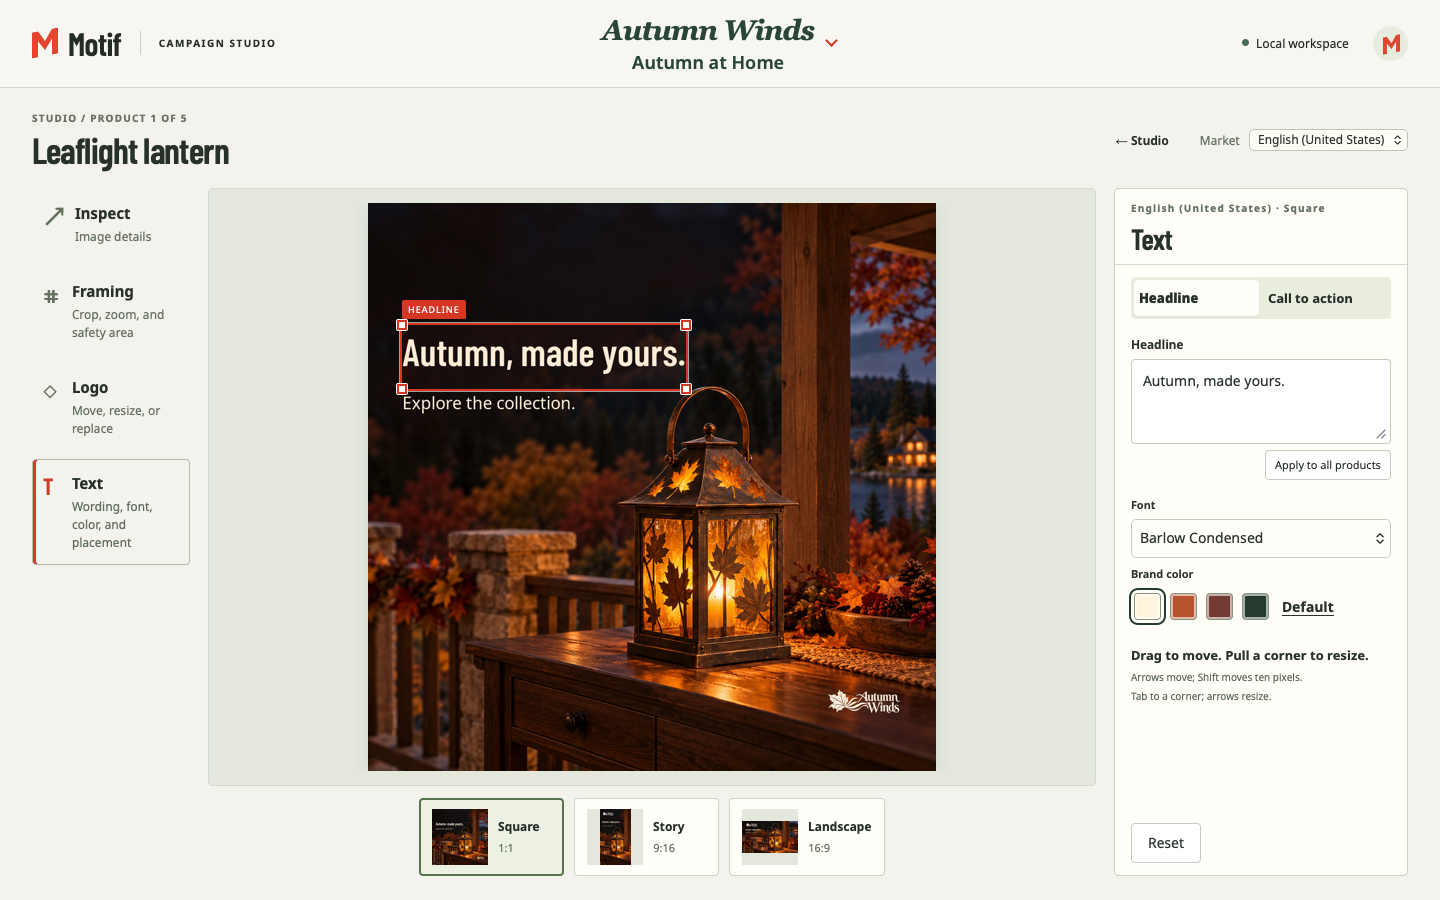
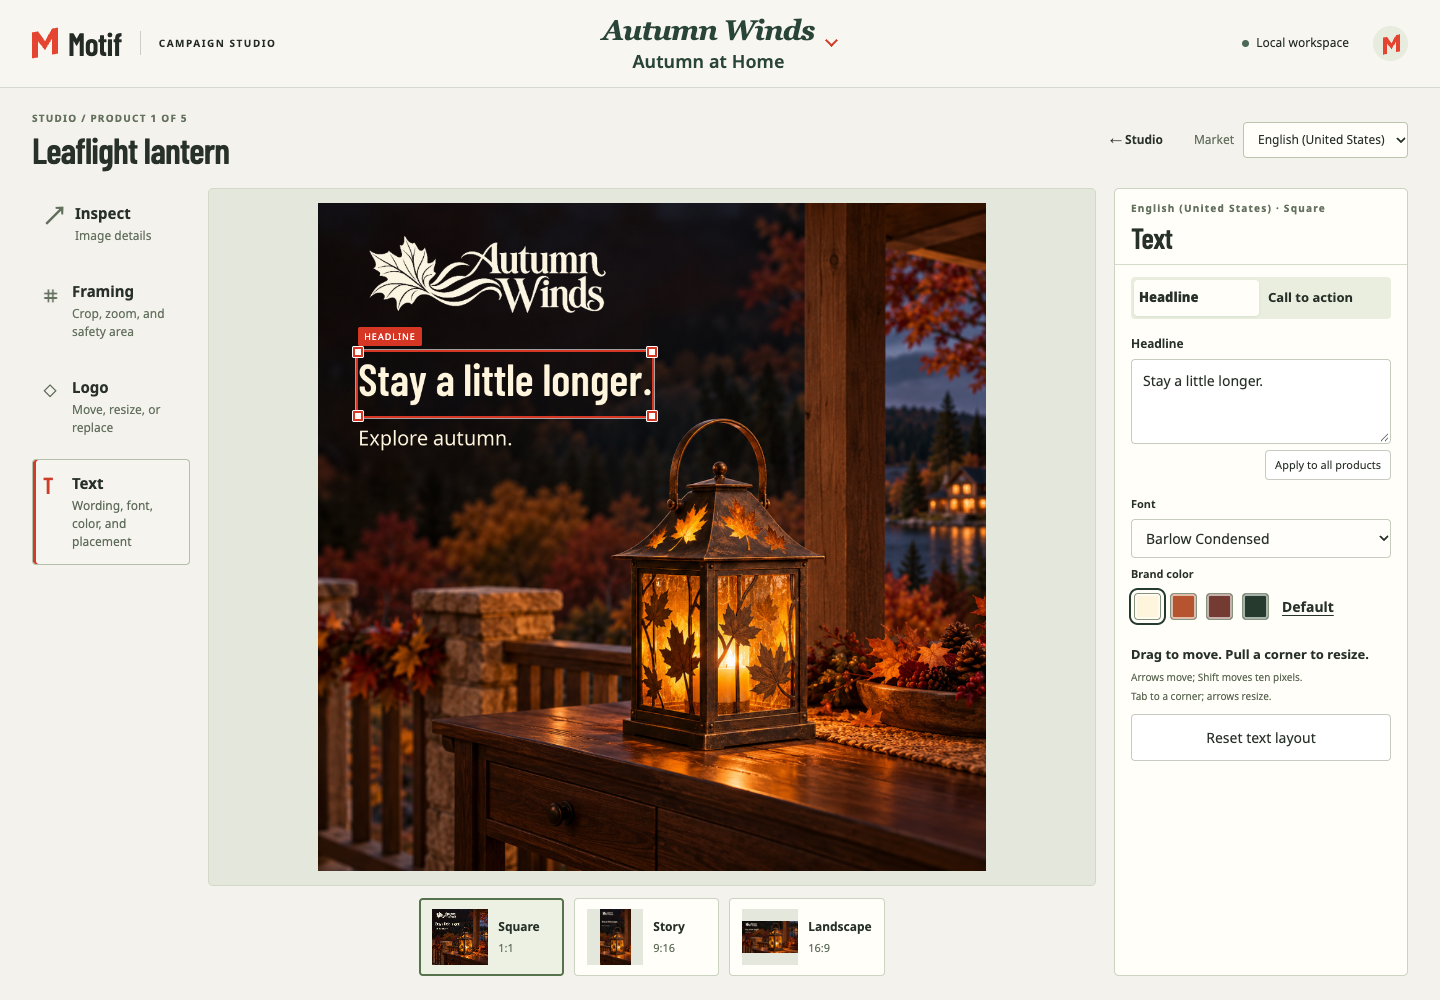
Finalize portfolio resources and verified installation documentation

diff --git a/docs/release-notes.md b/docs/release-notes.md
@@ -1,19 +1,17 @@
 # Motif v0.4.0 – Direct editing and flexible delivery
 
-- Reset logo placement becomes available as soon as the logo loads after refresh or a first visit to a format, without requiring another tool switch or edit.
-- Refreshing a Studio editor restores the same product, market, format, tool, and selected text block in that browser tab. Navigation does not create an authored save.
-- Live format thumbnails remain contained within their cards, including tall Story images. The intentional green surround around the main image is unchanged.
-
 Motif 0.4.0 keeps its local Python and plain JavaScript architecture while making editing more immediate, campaign creation easier, and delivery more flexible.
 
 - A newly created campaign remains recoverable if opening it or refreshing the Workbench fails. Retry opens the saved campaign without creating another one.
 - **New campaign** combines manual entry and JSON import in one dialog. Switching routes preserves unfinished entries, and **Download example JSON** supplies a valid, adaptable brief.
 - Handoff starts with all available output images selected. One **Download ZIP** action exports the checked images across pages, markets, and formats. Clearing selection disables it. Subset ZIPs contain only the selected PNGs and a matching offline report; campaign-wide export checks and failed-image retry remain in force.
 - Studio uses one persistent editing scene and save queue across tools. Click a logo or text block to select it, click the photograph outside those bounds for Framing, and choose Inspect explicitly. Overlapping elements follow their visible layer order.
+- Reset logo placement becomes available as soon as the logo loads after refresh or a first visit to a format, without requiring another tool switch or edit.
+- Refreshing a Studio editor restores the same product, market, format, tool, and selected text block in that browser tab. Navigation does not create an authored save.
 - Completed layout gestures update the selected format thumbnail directly from the browser canvas. Other formats retain their images unless shared wording or campaign artwork changes.
+- Live format thumbnails remain contained within their cards, including tall Story images.
 - Pending text previews resume after a drag, including a response that arrived while the pointer was held. Resize handles identify the currently selected logo, headline, or call to action for assistive technology.
 - Production and Studio galleries use sized previews and retain decoded images across view changes. Source, wording, layout, market, and branding changes invalidate the affected visual entries.
-
 - Canceling a rename or prohibited-word dialog leaves the applied campaign values unchanged.
 - Campaign copy confirmation waits until the field loses focus or the producer explicitly saves or navigates, preserving custom wording until confirmation.
 - Studio remains usable after resetting text placement, opening source details while a description saves, or styling an empty call to action.

diff --git a/docs/verification.md b/docs/verification.md
@@ -32,7 +32,7 @@ The integrated local Python run passed **1,079 tests**, with five native-Windows
 
 An independent code review exercised 205 focused JavaScript tests, 49 delivery tests, and additional HTTP boundary probes. It found two campaign-creation recovery defects, both corrected and independently rechecked: a failed catalog refresh after creation could lead to a duplicate campaign, and starting another campaign from the campaign menu could retain the previous creation identity. Recovery now reopens the committed campaign, while a deliberate New campaign action starts a fresh draft. Boundary probes also checked cross-campaign export ownership, stale versions, changed source bytes during export, and prohibited-word protection outside a selected subset.
 
-The integrated browser review downloaded four selected images spanning products, markets, formats, and pages, then all 30 images. Both ZIPs contained the exact requested image identities; dimensions and checksums matched their manifests. WebKit rendered the extracted selected report through a separate static server with all four images and no application, API, or external requests. Direct file navigation was blocked by that automation environment. Editor checks cover all 12 tool/format refresh combinations, logo reset on the first visit after refresh, Story thumbnail containment, and navigation waiting for a pending save.
+The integrated browser review downloaded four selected images spanning products, markets, formats, and pages, then all 30 images. Both ZIPs contained the exact requested image identities; dimensions and checksums matched their manifests. WebKit rendered the extracted selected report through a separate static server with all four images and no application, API, or external requests. Direct file navigation was blocked by that automation environment. A separate native Safari check opened the packaged installation’s extracted two-image report directly from its local file, with the Motif server stopped, and visibly rendered both images and their saved wording. Editor checks cover all 12 tool/format refresh combinations, logo reset on the first visit after refresh, Story thumbnail containment, and navigation waiting for a pending save.
 
 The established Motif designer reviewed the creation and Handoff layouts at 1440 × 900 and 1366 × 768. Resulting corrections distinguish campaign-wide readiness from the selected ZIP and preserve keyboard focus after filtering or removing the final unavailable selection. The offline report preview remains explicitly campaign-wide. Finished PNGs are reused for retries within the same failed export, not cached across separate successful downloads.
 

diff --git a/README.md b/README.md
@@ -12,11 +12,13 @@ Bruce Bracken built the initial working version in three and a half days, direct
 
 The central decision is to **generate source imagery only when needed, then compose exact supplied copy and branding locally**. One product source can support two markets and three formats. A wording, crop, logo, or text-style correction reuses that source instead of buying another image generation.
 
-![Motif Studio with combined text controls, the campaign image, and Square, Story, and Landscape formats.](docs/images/motif-studio.png)
+![Motif Studio with a selected headline in the persistent layered editor, text controls, and Square, Story, and Landscape thumbnails.](docs/images/motif-studio.png)
 
 ## Explore Motif
 
 [The Motif website](https://motif.brucebracken.com/) shows the application in action. The [engineering case study](docs/case-study.md) explains the decisions, difficult problems, and measured improvements behind it. This README provides setup instructions and the detailed behavior reference.
+
+The [presentation](https://motif.brucebracken.com/presentation) includes the original visual story and its engineering appendix.
 
 The application includes two seasonal campaigns: Autumn Winds provides a completed key-free example; Bridle & Bough provides a deliberate missing-image generation journey. The [example and import guide](examples/README.md) distinguishes these campaigns from engineering fixtures.
 
